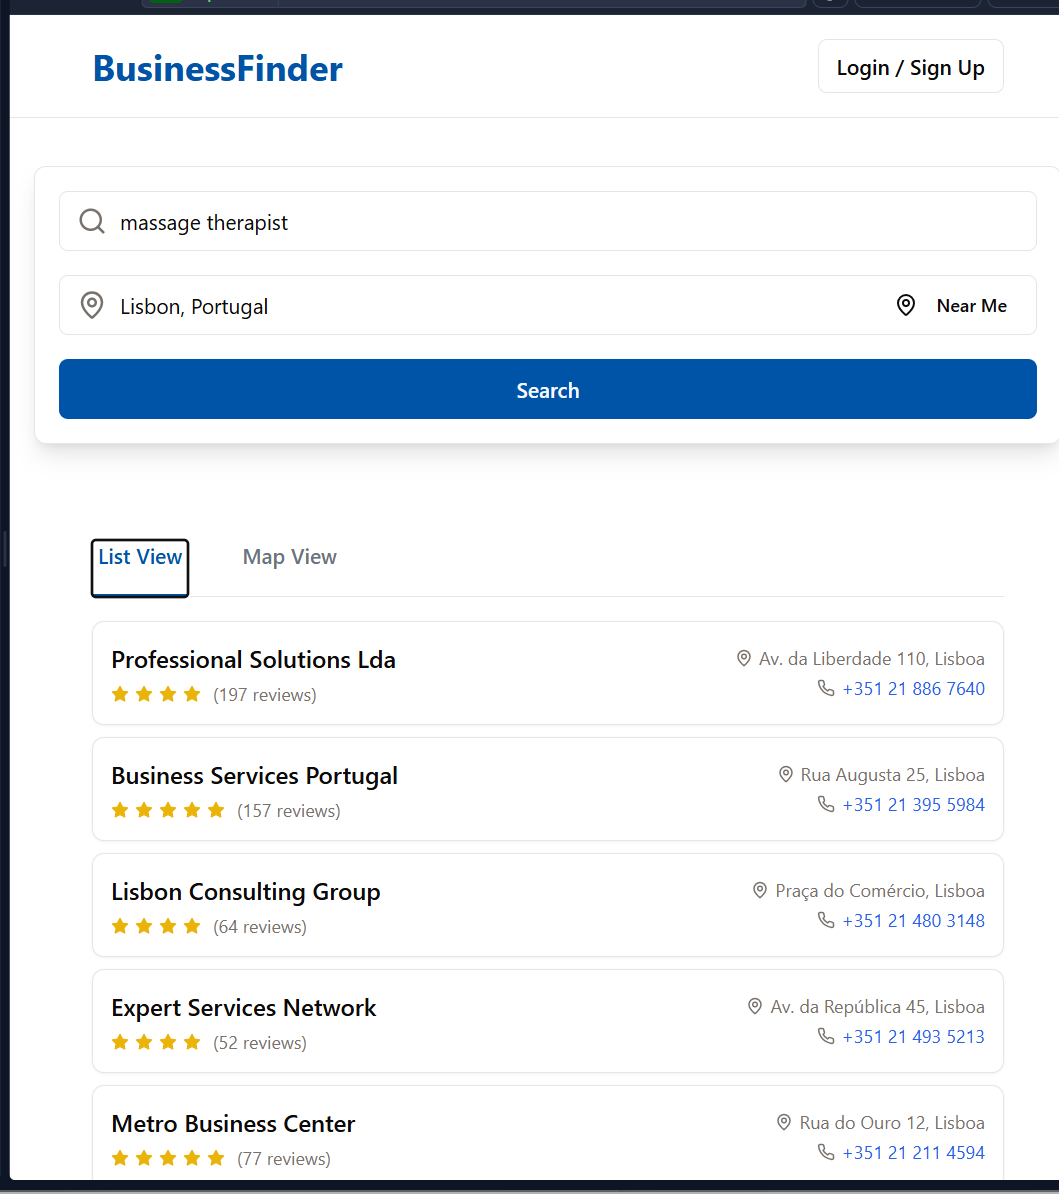
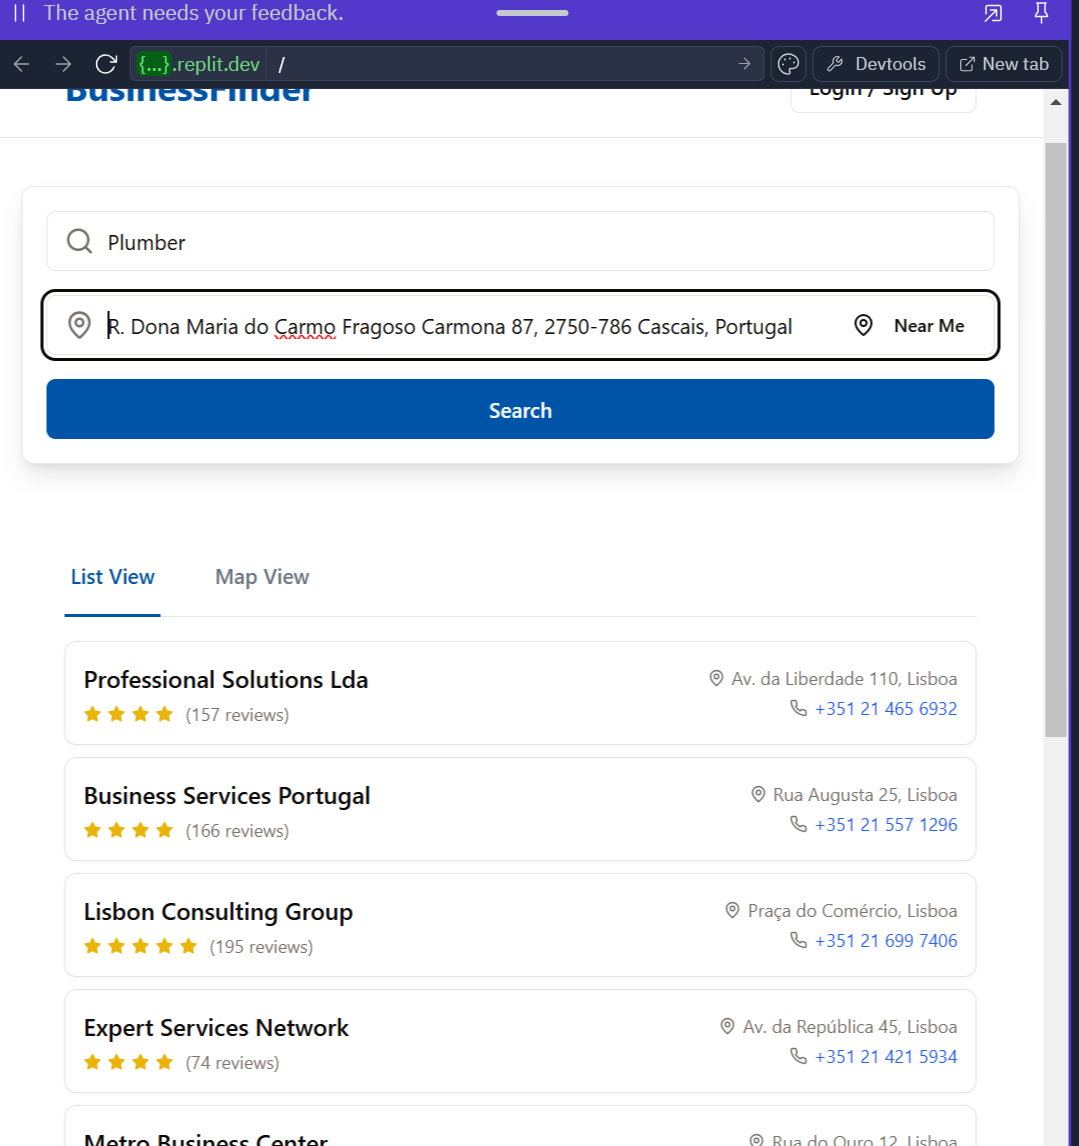
Agent query: Can you now see different results when searching for different professions (e.g., try searching for "massage" and then "electrician")? Are you seeing all results with proper pagination?
Improve search functionality:  Enhance search logic for professions, reset page on new searches, and only auto-focus location input if needed.

Screenshot: https://storage.googleapis.com/screenshot-production-us-central1/921638b4-d924-499d-b45f-6480b63dbb74/10252fee-5834-43a7-a3ec-7b3eb1e3bf0b.jpg

Changed region(s): [[0.0, 0.0, 1.0, 1.0], [0.6856, 0.5192, 0.7167, 0.5497]]

diff --git a/server/routes.ts b/server/routes.ts
@@ -531,12 +531,23 @@ export function registerRoutes(app: Express): Server {
       // Normalize the query to handle variations
       const normalizedQuery = query.toLowerCase().trim();
       
-      // Find matching professions based on partial matches
+      // Get results based on profession or default
       let results = defaultResults;
-      for (const [profession, businesses] of Object.entries(professionBusinesses)) {
-        if (profession.includes(normalizedQuery) || normalizedQuery.includes(profession)) {
-          results = businesses;
-          break;
+      
+      // Check for profession matches
+      if (normalizedQuery) {
+        for (const [profession, businesses] of Object.entries(professionBusinesses)) {
+          // Make the search more flexible by checking partial matches
+          if (profession.toLowerCase().includes(normalizedQuery) || 
+              normalizedQuery.includes(profession.toLowerCase()) ||
+              // Check individual words
+              profession.toLowerCase().split(' ').some(word => 
+                normalizedQuery.includes(word) || 
+                word.includes(normalizedQuery)
+              )) {
+            results = businesses;
+            break;
+          }
         }
       }
 

diff --git a/client/src/components/SearchBar.tsx b/client/src/components/SearchBar.tsx
@@ -245,15 +245,23 @@ export function SearchBar({ onSearch }: SearchBarProps) {
     setShowProfessions(false);
     setSelectedIndex(-1);
     setProfessionSelected(true);
-    setActiveInputField('location');
-    // Focus on location input after selecting profession
-    setTimeout(() => {
-      const locationInput = document.querySelector('input[placeholder="Location"]') as HTMLInputElement;
-      if (locationInput) {
-        locationInput.focus();
-        locationInput.scrollIntoView({ behavior: 'smooth', block: 'nearest' });
-      }
-    }, 0);
+    
+    // If location is already set, perform the search immediately
+    if (location) {
+      onSearch(profession.name, location);
+    }
+    
+    // Focus on location input if no location is set
+    if (!location) {
+      setActiveInputField('location');
+      setTimeout(() => {
+        const locationInput = document.querySelector('input[placeholder="Location"]') as HTMLInputElement;
+        if (locationInput) {
+          locationInput.focus();
+          locationInput.scrollIntoView({ behavior: 'smooth', block: 'nearest' });
+        }
+      }, 0);
+    }
   };
 
   return (

diff --git a/client/src/pages/HomePage.tsx b/client/src/pages/HomePage.tsx
@@ -25,6 +25,7 @@ export default function HomePage() {
 
   const handleSearch = (query: string, location: string) => {
     setSearchParams({ query, location });
+    setCurrentPage(1); // Reset to first page on new search
   };
 
   return (
